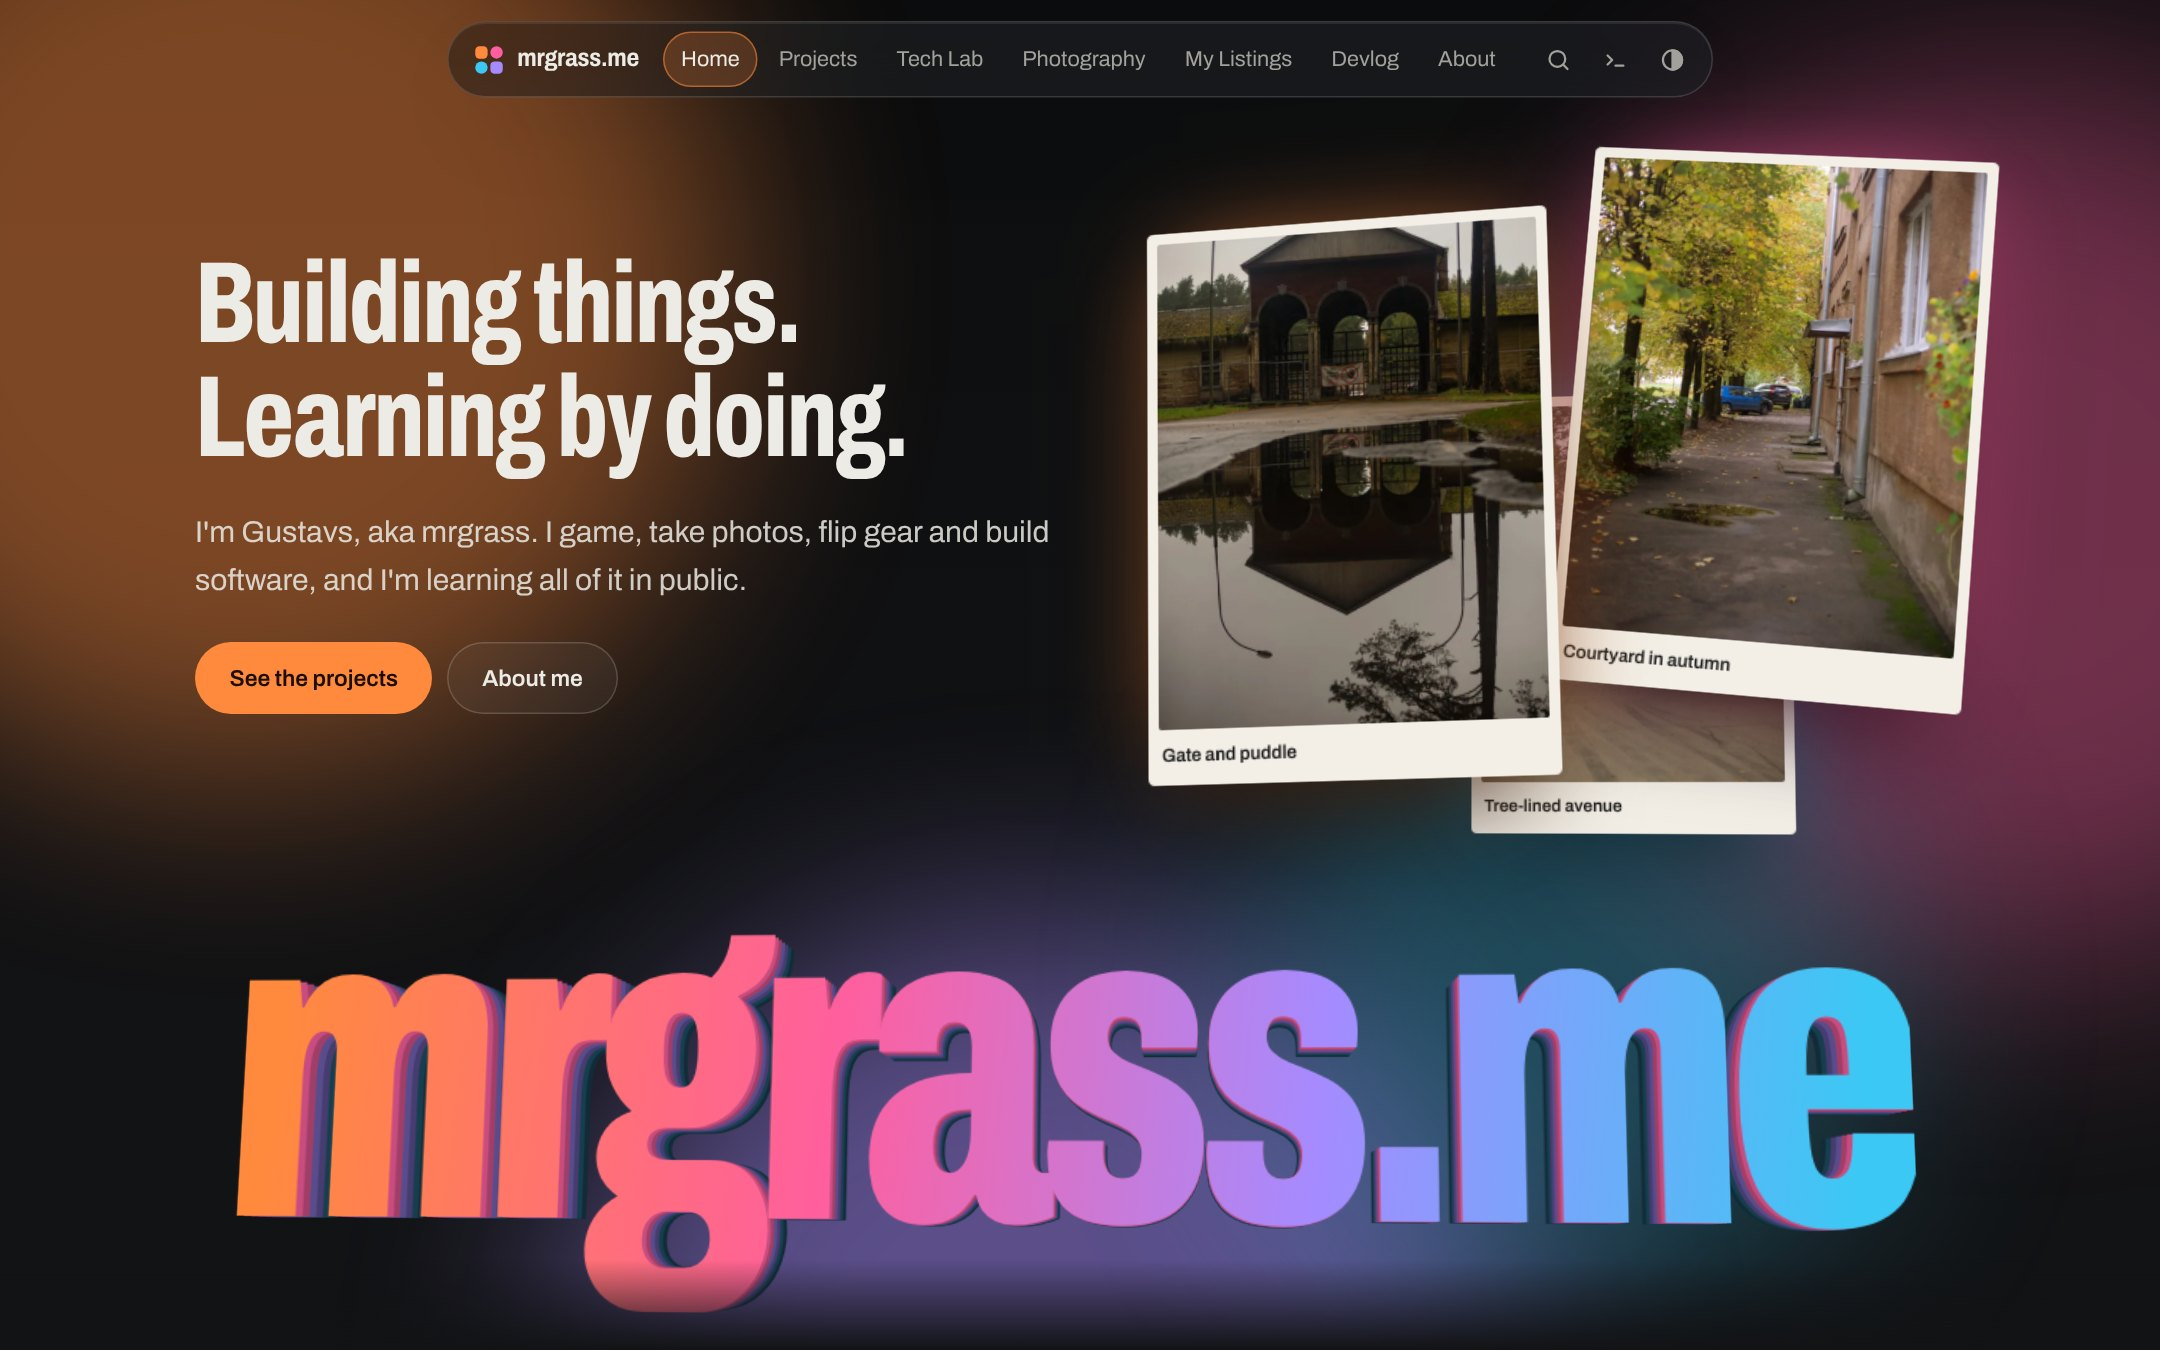
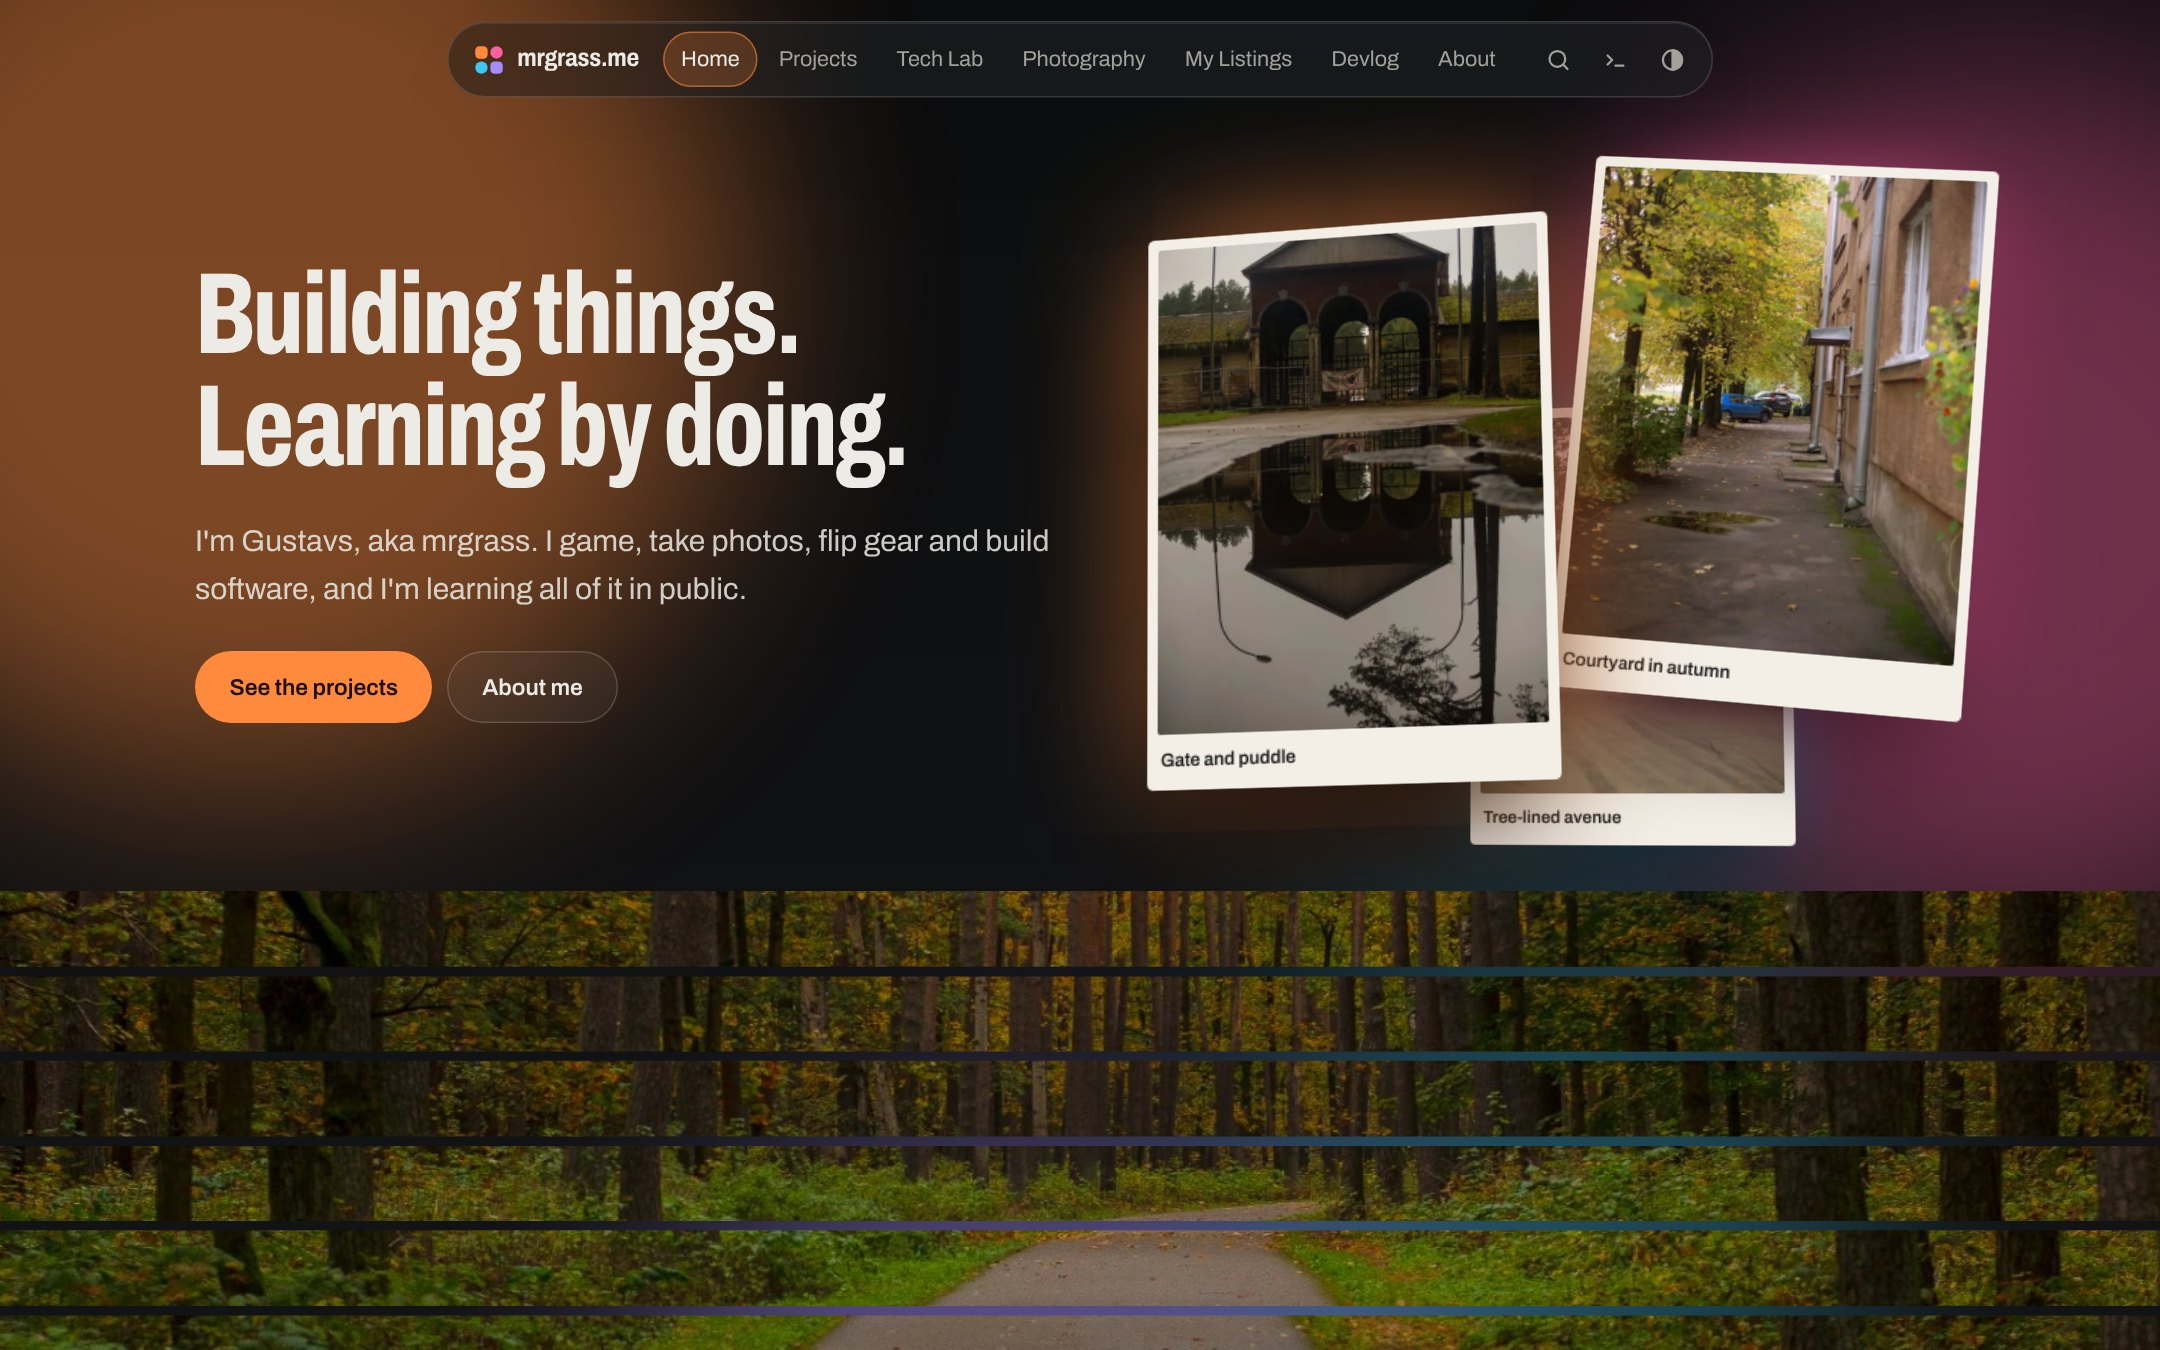
Home: sliced photo band with an info row instead of the big name; photos fly to fullscreen on click
- Photo cut into 8 horizontal slices that drift against each other; uses the About portrait if one is set
- Info row under it: name, interests, camera, next goal, links (new Name setting)
- Stack photos open in the viewer with a fly-in from the card and fly-back on close
- New project screenshot and share image

Claude-Session: https://claude.ai/code/session_01JLn4mqzQDd2rWfni8c8zje

diff --git a/portfolio/static/css/site.css b/portfolio/static/css/site.css
@@ -175,7 +175,7 @@ body.menu-open{overflow:hidden}
 .gallery button:hover img{transform:scale(1.03)}
 
 /* ---- home ---- */
-.hero{position:relative;min-height:min(100vh,960px);margin-top:-84px;display:flex;flex-direction:column;justify-content:flex-end;overflow:hidden;background:linear-gradient(var(--bg-deep),var(--bg) 78%)}
+.hero{position:relative;margin-top:-84px;display:flex;flex-direction:column;overflow:hidden;background:linear-gradient(var(--bg-deep),var(--bg) 78%)}
 .hero-bg{position:absolute;inset:0;z-index:0;overflow:hidden}
 .orb{position:absolute;border-radius:50%;filter:blur(72px);opacity:.46;will-change:transform}
 .o1{width:46vw;height:46vw;left:-12vw;top:-10vw;background:var(--c-projects);animation:drift 24s ease-in-out infinite alternate}
@@ -184,7 +184,7 @@ body.menu-open{overflow:hidden}
 .o4{width:28vw;height:28vw;right:16vw;bottom:4vw;background:var(--c-lab);opacity:.3;animation:drift 26s ease-in-out -12s infinite alternate-reverse}
 :root[data-theme=light] .orb{opacity:.3}
 @keyframes drift{to{transform:translate(6vw,4vw) scale(1.12)}}
-.hero-copy{position:relative;z-index:3;padding-top:104px;margin-block:auto;display:grid;grid-template-columns:minmax(0,1.05fr) minmax(0,.95fr);gap:clamp(20px,4vw,64px);align-items:center}
+.hero-copy{position:relative;z-index:3;padding-top:112px;padding-bottom:clamp(8px,2vw,24px);display:grid;grid-template-columns:minmax(0,1.05fr) minmax(0,.95fr);gap:clamp(20px,4vw,64px);align-items:center}
 .hero-copy.solo{grid-template-columns:minmax(0,760px)}
 .hero h1{font-size:clamp(2.5rem,5.4vw,4.8rem)}
 .hero h1 span{display:block}
@@ -200,21 +200,27 @@ body.menu-open{overflow:hidden}
 .pc1{left:0;top:14%;--glow:var(--c-projects);transform:translate3d(calc(var(--px)*26px),calc(var(--py)*14px),90px) rotate(-3deg);z-index:3}
 .pc2{right:0;top:0;--glow:var(--c-photos);transform:translate3d(calc(var(--px)*12px),calc(var(--py)*8px),10px) rotate(4deg);z-index:2}
 .pc3{left:36%;bottom:-4%;width:42%;--glow:var(--c-lab);transform:translate3d(calc(var(--px)*-8px),calc(var(--py)*-6px),-70px) rotate(-1.5deg);z-index:1}
+.pcd{cursor:zoom-in}
 .pcd:hover{box-shadow:0 40px 70px -20px rgba(0,0,0,.8),0 0 90px -10px var(--glow)}
-/* the name, extruded: seven copies stacked in depth */
-.wm{perspective:1100px;--px:0;--py:0;margin:clamp(0px,2vh,26px) 0 -.13em -.04em;position:relative;z-index:2;user-select:none}
-.wm-in{position:relative;display:inline-block;transform-style:preserve-3d;transform:rotateY(calc(-7deg + var(--px)*9deg)) rotateX(calc(4deg + var(--py)*-6deg));transition:transform .2s ease-out;transform-origin:50% 60%}
-.wl{display:block;font-stretch:62%;font-weight:800;font-size:clamp(4.6rem,21.5vw,21rem);line-height:1;letter-spacing:-.035em;white-space:nowrap;padding:0 0 .12em}
-.wl:not(.wf){position:absolute;left:0;top:0}
-.w1{transform:translateZ(-9px);color:color-mix(in srgb,var(--c-photos) 78%,var(--wm-shade))}
-.w2{transform:translateZ(-18px);color:color-mix(in srgb,var(--c-photos) 62%,var(--wm-shade))}
-.w3{transform:translateZ(-27px);color:color-mix(in srgb,var(--c-devlog) 52%,var(--wm-shade))}
-.w4{transform:translateZ(-36px);color:color-mix(in srgb,var(--c-devlog) 40%,var(--wm-shade))}
-.w5{transform:translateZ(-45px);color:color-mix(in srgb,var(--c-lab) 28%,var(--wm-shade))}
-.w6{transform:translateZ(-54px);color:color-mix(in srgb,var(--c-lab) 18%,var(--wm-shade))}
-.wf{position:relative;color:transparent;background:linear-gradient(95deg,var(--c-projects) 4%,var(--c-photos) 38%,var(--c-devlog) 66%,var(--c-lab) 96%);-webkit-background-clip:text;background-clip:text}
-.hero::after{content:"";position:absolute;left:0;right:0;bottom:0;height:60px;background:linear-gradient(transparent,var(--bg));z-index:5;pointer-events:none}
-@media (max-width:820px){.hero-copy{grid-template-columns:1fr;padding-top:112px}.hero{min-height:0;padding-top:0}.stack{height:min(96vw,420px);margin-top:8px}.orb{filter:blur(50px)}.hero-copy.solo{grid-template-columns:1fr}}
+/* a photo cut into horizontal slices: each strip shows its own part of the picture and drifts a little against its neighbours */
+.slices{position:relative;z-index:2;display:grid;grid-template-rows:repeat(8,1fr);gap:var(--g);--g:6px;--px:0;--py:0;height:clamp(240px,31vw,460px);margin-top:clamp(8px,2vw,28px)}
+.slices i{position:relative;display:block;overflow:hidden;--k:1;--cl:100%;--cr:0%;animation:slice-in 1s cubic-bezier(.2,.7,.2,1) both;animation-delay:calc(var(--i)*70ms + .25s)}
+.slices i:nth-child(even){--k:-1;--cl:0%;--cr:100%}
+.slices img{position:absolute;left:-4%;width:108%;height:calc(800% + 7*var(--g));top:calc(var(--i)*(-100% - var(--g)));object-fit:cover;max-width:none;
+  transform:translateX(calc(var(--px)*var(--k)*3.4%));transition:transform .25s ease-out}
+@keyframes slice-in{from{clip-path:inset(0 var(--cl) 0 var(--cr))}to{clip-path:inset(0)}}
+.who{display:grid;grid-template-columns:minmax(0,1fr) minmax(0,2fr);gap:clamp(20px,4vw,64px);padding-block:clamp(28px,5vw,56px) 0}
+.who h2{font-size:clamp(1.9rem,3.6vw,2.8rem);font-stretch:70%;font-weight:750;line-height:1}
+.who-name .row{display:flex;flex-wrap:wrap;gap:8px;margin-top:18px}
+.who-facts{display:grid;grid-template-columns:repeat(auto-fit,minmax(170px,1fr));gap:20px 28px}
+.who-facts dt{font-size:.84rem;color:var(--dim);margin-bottom:6px}
+.who-facts dd{margin:0;line-height:1.45}
+.who-facts li+li{margin-top:4px}
+.who-links{grid-column:2;display:flex;flex-wrap:wrap;gap:6px 22px;padding-top:18px;border-top:1px solid var(--line)}
+.who-links a{text-decoration:none;color:var(--mut);transition:color .15s}
+.who-links a:hover{color:var(--acc)}
+@media (max-width:820px){.who{grid-template-columns:1fr}.who-links{grid-column:1}}
+@media (max-width:820px){.hero-copy{grid-template-columns:1fr;padding-top:112px}.hero{min-height:0;padding-top:0}.stack{height:min(96vw,420px);margin-top:8px}.slices{--g:4px}.orb{filter:blur(50px)}.hero-copy.solo{grid-template-columns:1fr}}
 
 .feat{display:grid;gap:clamp(40px,7vw,96px)}
 .feat-item{display:grid;grid-template-columns:repeat(12,1fr);gap:clamp(18px,3vw,44px);align-items:center;text-decoration:none}

diff --git a/portfolio/static/js/site.js b/portfolio/static/js/site.js
@@ -137,21 +137,44 @@
       bar.style.display = bar.childNodes.length ? '' : 'none';
       $('.lb-prev', lb).hidden = $('.lb-next', lb).hidden = group.length < 2;
     };
-    const openLb = (name, index) => {
+    // A picture with data-fly flies between its place on the page and the full-screen viewer.
+    const fly = (img, from, reverse) => {
+      const to = img.getBoundingClientRect(), f = from.getBoundingClientRect();
+      if (!to.width || !f.width) return null;
+      const s = f.width / to.width, dx = f.left + f.width / 2 - (to.left + to.width / 2), dy = f.top + f.height / 2 - (to.top + to.height / 2);
+      const frames = [{ transform: `translate(${dx}px, ${dy}px) scale(${s}) rotate(-3deg)`, opacity: .9 }, { transform: 'none', opacity: 1 }];
+      return img.animate(reverse ? frames.reverse() : frames, { duration: reverse ? 320 : 560, easing: 'cubic-bezier(.2,.8,.2,1)', fill: 'both' });
+    };
+    const openLb = (name, index, origin) => {
       group = $$(`[data-lb="${name}"]`).filter(n => !n.dataset.off && !n.closest('[data-off]'));
       if (!group.length) return;
       lastFocus = document.activeElement;
       lb.classList.add('open'); document.body.style.overflow = 'hidden';
       show(index); $('.lb-close', lb).focus();
+      if (!calm && origin?.hasAttribute('data-fly')) {
+        lb.animate([{ background: 'rgba(6,6,7,0)' }, { background: 'rgba(6,6,7,.94)' }], { duration: 420, easing: 'ease-out' });
+        const img = $('img:not(.before)', stage), thumb = $('img', origin);
+        if (img && thumb) { img.style.opacity = 0; const go = () => { img.style.opacity = ''; const an = fly(img, thumb); if (an) an.onfinish = () => an.cancel(); }; img.complete ? go() : (img.onload = go, setTimeout(go, 1200)); }
+      }
     };
-    const closeLb = () => { lb.classList.remove('open'); document.body.style.overflow = ''; lastFocus?.focus?.(); };
+    const closeLb = () => {
+      const origin = group[at], img = $('img:not(.before)', stage), thumb = origin && $('img', origin);
+      const done = () => { lb.classList.remove('open'); document.body.style.overflow = ''; lastFocus?.focus?.(); };
+      if (!calm && origin?.hasAttribute('data-fly') && img && thumb && thumb.getBoundingClientRect().bottom > 0 && !stage.classList.contains('zoom')) {
+        lb.animate([{ background: 'rgba(6,6,7,.94)' }, { background: 'rgba(6,6,7,0)' }], { duration: 320, fill: 'both' });
+        const a = fly(img, thumb, true);
+        if (a) { a.onfinish = done; return; }
+      }
+      done();
+    };
     document.addEventListener('click', e => {
       const go = e.target.closest('[data-lb-go]');
       if (go) return openLb(go.dataset.lbGo, +(go.dataset.index || 0));
       const t = e.target.closest('[data-lb]');
       if (t && !lb.contains(t)) {
+        if (t.matches('a')) e.preventDefault();               // cards on the home page: the viewer instead of the page
         const all = $$(`[data-lb="${t.dataset.lb}"]`).filter(n => !n.dataset.off);
-        openLb(t.dataset.lb, all.indexOf(t));
+        openLb(t.dataset.lb, all.indexOf(t), t);
       }
       const thumb = e.target.closest('[data-thumb]');
       if (thumb) {

diff --git a/portfolio/templates/home.html b/portfolio/templates/home.html
@@ -12,15 +12,30 @@
     <div class="stack" data-scene aria-label="Recent photographs">
       <div class="stack-in">
         {% for p in hero_photos %}
-        <a class="pcd pc{{ loop.index }}" href="/photos#p-{{ p.slug }}"><img src="{{ p.image.thumb }}" alt="{{ p.title or 'Photograph' }}" width="{{ p.image.w }}" height="{{ p.image.h }}" decoding="async"{% if loop.first %} fetchpriority="high"{% endif %}><span>{{ p.title }}</span></a>
+        <a class="pcd pc{{ loop.index }}" href="/photos#p-{{ p.slug }}" data-lb="hero" data-fly data-src="{{ p.image.src }}" data-title="{{ p.title }}" data-text="{{ p.caption }}" data-info="{{ [p.camera, p.lens, p.settings, p.taken|date]|select|join('|') }}"><img src="{{ p.image.thumb }}" alt="{{ p.title or 'Photograph' }}" width="{{ p.image.w }}" height="{{ p.image.h }}" decoding="async"{% if loop.first %} fetchpriority="high"{% endif %}><span>{{ p.title }}</span></a>
         {% endfor %}
       </div>
     </div>
     {% endif %}
   </div>
-  <div class="wrap"><div class="wm" aria-hidden="true" data-scene><div class="wm-in">
-    <span class="wl w6">mrgrass.me</span><span class="wl w5">mrgrass.me</span><span class="wl w4">mrgrass.me</span><span class="wl w3">mrgrass.me</span><span class="wl w2">mrgrass.me</span><span class="wl w1">mrgrass.me</span><span class="wl wf">mrgrass.me</span>
-  </div></div></div>
+  {% if band %}
+  <div class="slices" data-scene role="img" aria-label="{{ band.alt }}">
+    {% for i in range(8) %}<i style="--i:{{ i }}"><img src="{{ band.img.src }}" alt="" decoding="async"></i>{% endfor %}
+  </div>
+  {% endif %}
+</section>
+
+<section class="wrap who">
+  <div class="who-name">
+    <h2>{{ site.name or 'mrgrass' }}</h2>
+    <div class="row"><a class="btn small" href="/about">About me</a><a class="btn small ghost" href="/about#contact">Get in touch</a></div>
+  </div>
+  <dl class="who-facts">
+    {% if site.interests %}<div><dt>Into</dt><dd><ul>{% for i in site.interests[:4] %}<li>{{ i }}</li>{% endfor %}</ul></dd></div>{% endif %}
+    {% if camera %}<div><dt>Shooting with</dt><dd>{{ camera }}</dd></div>{% endif %}
+    {% if site.goals %}<div><dt>Saving up for</dt><dd>{{ site.goals[0] }}</dd></div>{% endif %}
+  </dl>
+  <nav class="who-links" aria-label="Elsewhere">{% for name, url in site.socials %}<a href="{{ url }}" rel="noopener me" target="_blank">{{ name }}</a>{% endfor %}</nav>
 </section>
 
 {% if featured %}

diff --git a/portfolio/app/main.py b/portfolio/app/main.py
@@ -144,8 +144,18 @@ async def home(request: Request):
     feed.sort(key=lambda x: (x["when"], x["t"]), reverse=True)
     working = [n for n in public("now") if n.get("section") == "Working on"] or \
               [{"text": p["title"], "note": p.get("summary", "")} for p in projects if p.get("status") == "In Development"]
-    shots = sorted(public("photo"), key=lambda i: (bool(i.get("featured")), i["created"]), reverse=True)[:3]
-    return page(request, "home.html", hero_photos=shots, featured=[p for p in projects if p.get("featured")][:4], working=working[:4], feed=feed[:6],
+    ranked = sorted(public("photo"), key=lambda i: (bool(i.get("featured")), i["created"]), reverse=True)
+    shots = ranked[:3]
+    site = settings()
+    if site.get("portrait"):                      # a picture of you, uploaded in Settings, wins; otherwise one of the photos not already in the stack
+        band = {"img": site["portrait"], "alt": site.get("name") or "mrgrass"}
+    elif ranked:
+        pick = (ranked[3:] or ranked)[0]
+        band = {"img": pick["image"], "alt": pick.get("title") or "Photograph"}
+    else:
+        band = None
+    camera = next((g.get("details") or g.get("name") for g in public("gear") if g.get("group") == "Camera"), "")
+    return page(request, "home.html", hero_photos=shots, band=band, camera=camera, featured=[p for p in projects if p.get("featured")][:4], working=working[:4], feed=feed[:6],
                 counts={t: len(public(t)) for t in ("project", "experiment", "photo", "product", "listing", "post")})
 
 

diff --git a/portfolio/tests/test_site.py b/portfolio/tests/test_site.py
@@ -284,7 +284,7 @@ def test_content_drop_can_change_settings_and_existing_items(admin, anon, tmp_pa
 
 def test_home_has_no_grass_and_has_sections_in_colour(anon):
     home = anon.get("/").text
-    assert "grass.js" not in home and 'class="grass' not in home and "<canvas" not in home
+    assert "grass.js" not in home and 'class="wm"' not in home and 'class="grass' not in home and "<canvas" not in home
     assert 'data-sec="home"' in home and 'data-sec="lab"' in anon.get("/lab").text and "mrgrass.me" in home
     assert anon.get("/playground/grass").status_code == 404
     assert "Same exposure calculator" in anon.get("/playground").text and 'id="expo"' in anon.get("/playground/exposure").text

diff --git a/portfolio/app/schema.py b/portfolio/app/schema.py
@@ -182,6 +182,7 @@ ACCENTS = ["Ember", "Rose", "Ice", "Violet"]
 
 SETTINGS = [
     f("headline", "text", "Home page headline", required=True),
+    f("name", "text", "Your name on the home page", help="Shown under the big photo, for example: Gustavs, aka mrgrass."),
     f("intro", "textarea", "Home page introduction", rows=3),
     f("accent", "select", "Accent colour", options=ACCENTS, default="Ember"),
     f("portrait", "image", "Photo or avatar for the About page"),

diff --git a/portfolio/app/seed.py b/portfolio/app/seed.py
@@ -10,6 +10,7 @@ from . import media
 
 SETTINGS = {
     "headline": "Building things. Learning by doing.",
+    "name": "mrgrass",
     "intro": "I'm mrgrass. I'm into programming, PC hardware, electronics and photography, and I learn by building things I actually use.",
     "accent": "Ember",
     "portrait": None,
